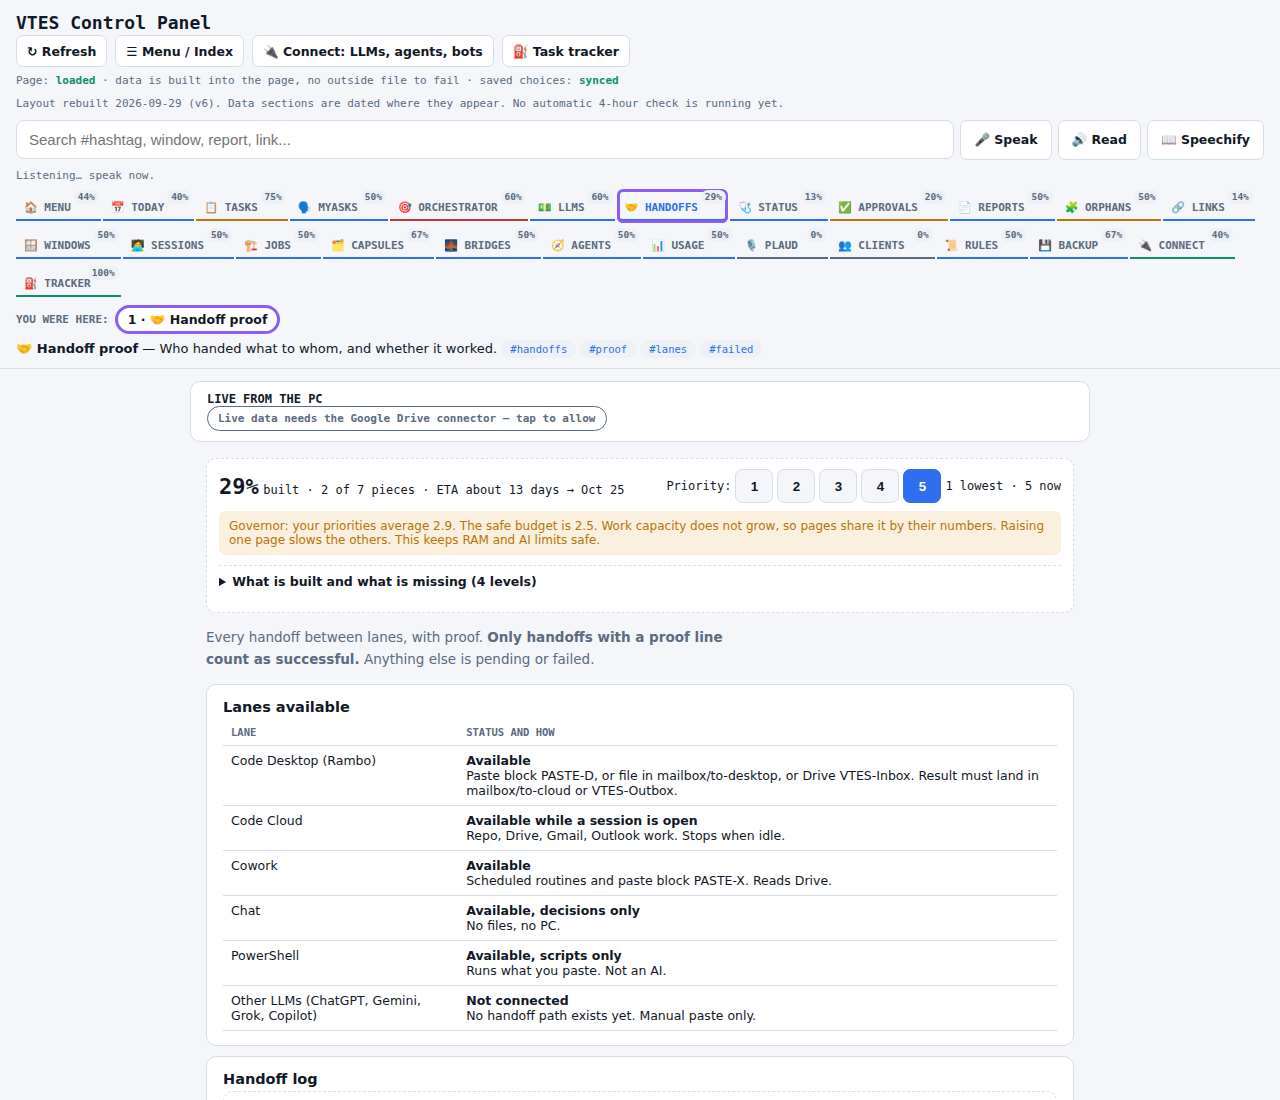
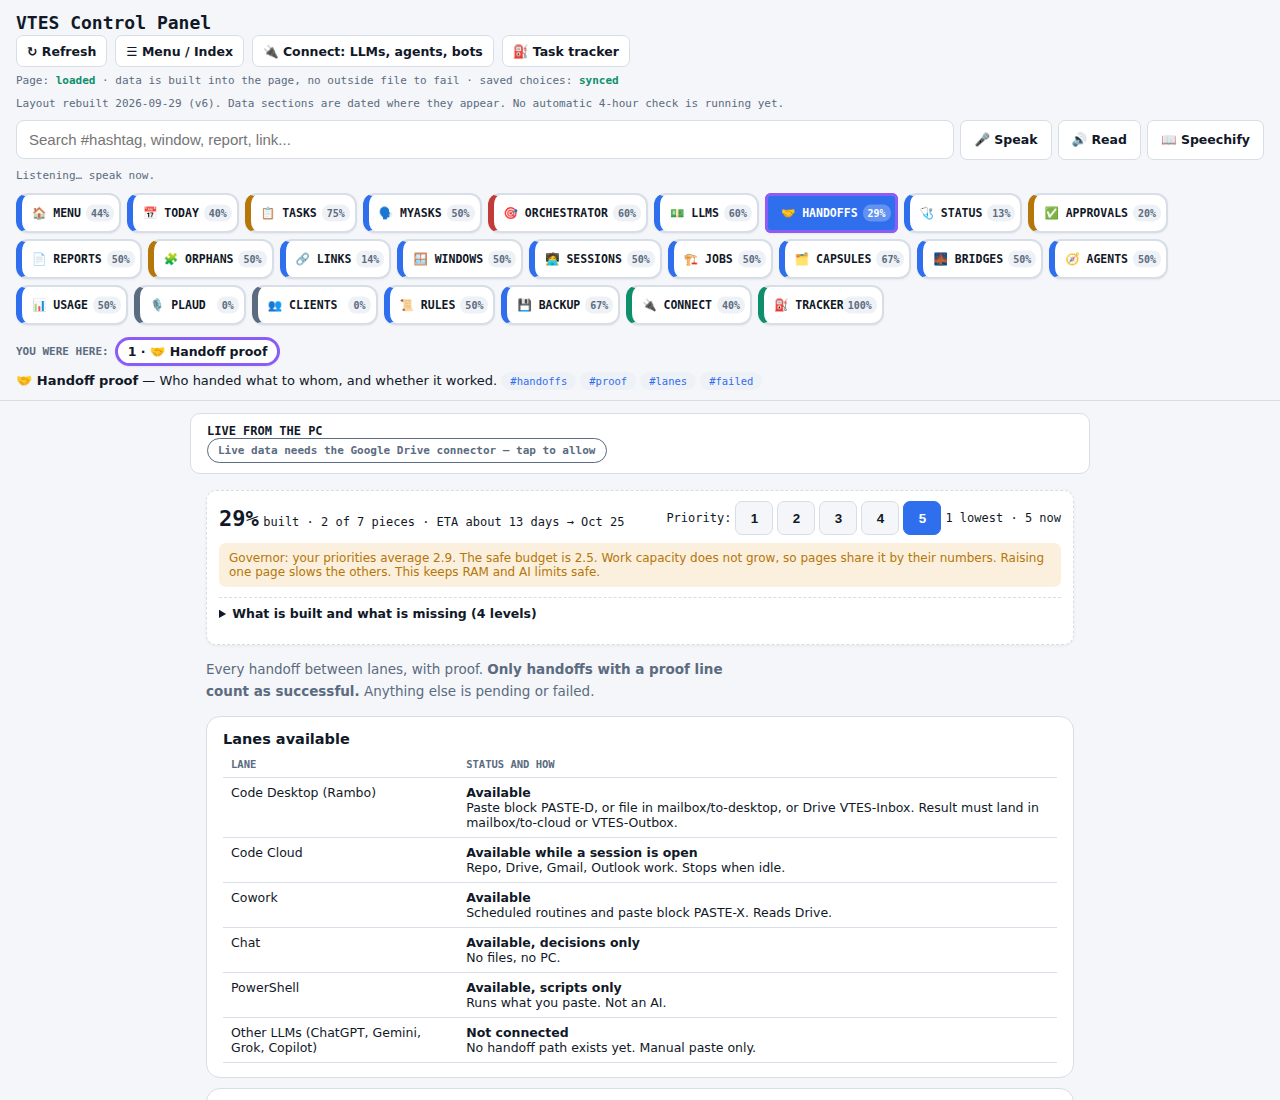
Panel v19: tabs as rounded bordered buttons with status stripe and inline % badge
Claude-Session: https://claude.ai/code/session_01DUB8NQHkiANrQ9LQZnK1Ho

Changed region(s): [[0.0, 0.1545, 0.9688, 1.0]]

diff --git a/control-panel/VTES-Control-Panel_v13_connect-wired_2026-10-12.html b/control-panel/VTES-Control-Panel_v13_connect-wired_2026-10-12.html
@@ -83,7 +83,7 @@ details.hand{margin-top:10px;border-top:1px dashed var(--line);padding-top:8px}d
 .gauge .notch{position:absolute;top:-2px;bottom:-2px;width:3px;background:var(--ink)}
 .gauge span{position:relative;display:block;text-align:center;font-family:var(--mono);font-size:12px;font-weight:700;line-height:22px;color:var(--ink);text-shadow:0 0 3px var(--panel)}
 .tk.p0{border:2px solid var(--bad)}
-.tabs{flex-wrap:wrap;overflow:visible;gap:4px 2px}.tab{position:relative;padding:12px 30px 7px 8px;font-size:11px}
+.tabs{flex-wrap:wrap;overflow:visible;gap:6px;padding:4px 0 6px}.tab{position:relative;padding:9px 38px 9px 10px;font-size:11.5px;color:var(--ink);background:var(--panel);border:2px solid var(--line);border-left:6px solid var(--st,var(--line));border-radius:12px;min-height:40px;box-shadow:0 1px 2px rgba(0,0,0,.06);transition:transform .08s,box-shadow .08s}.tab:hover{transform:translateY(-1px);box-shadow:0 3px 8px rgba(0,0,0,.12)}.tab.active{background:var(--accent);color:#fff;border-color:var(--accent);border-left-color:var(--st,var(--accent))}.tab.active .pct{background:rgba(255,255,255,.25);color:#fff}.tab[data-st]{box-shadow:0 1px 2px rgba(0,0,0,.06)}.tab.r1,.tab.r2,.tab.r3{outline:none}.tab.r1{border-color:#8b5cf6;border-left-color:var(--st,#8b5cf6)}.tab.r2{border-color:#db2777;border-left-color:var(--st,#db2777)}.tab.r3{border-color:#0891b2;border-left-color:var(--st,#0891b2)}.tabs .tab .pct{top:50%;transform:translateY(-50%);right:5px;font-size:10px;padding:1px 5px;line-height:15px}.rc{border-radius:12px;padding:6px 12px;box-shadow:0 1px 2px rgba(0,0,0,.06)}.bbox{border:2px solid var(--line);border-radius:14px;box-shadow:0 1px 3px rgba(0,0,0,.06)}.card{border-radius:14px}.mapbtn{border-radius:12px}.branch{border-radius:16px}
 .tab .pct{position:absolute;top:1px;right:2px;font-size:9.5px;font-weight:700;color:var(--muted);background:var(--pill-bg);border-radius:8px;padding:0 4px;line-height:14px}
 .bbox{border:1px dashed var(--line);border-radius:10px;padding:10px 12px;margin:0 0 14px;background:var(--panel)}
 .bbtop{display:flex;flex-wrap:wrap;gap:8px 14px;align-items:center;justify-content:space-between}.bbpct{font-family:var(--mono);font-size:22px;font-weight:700}
